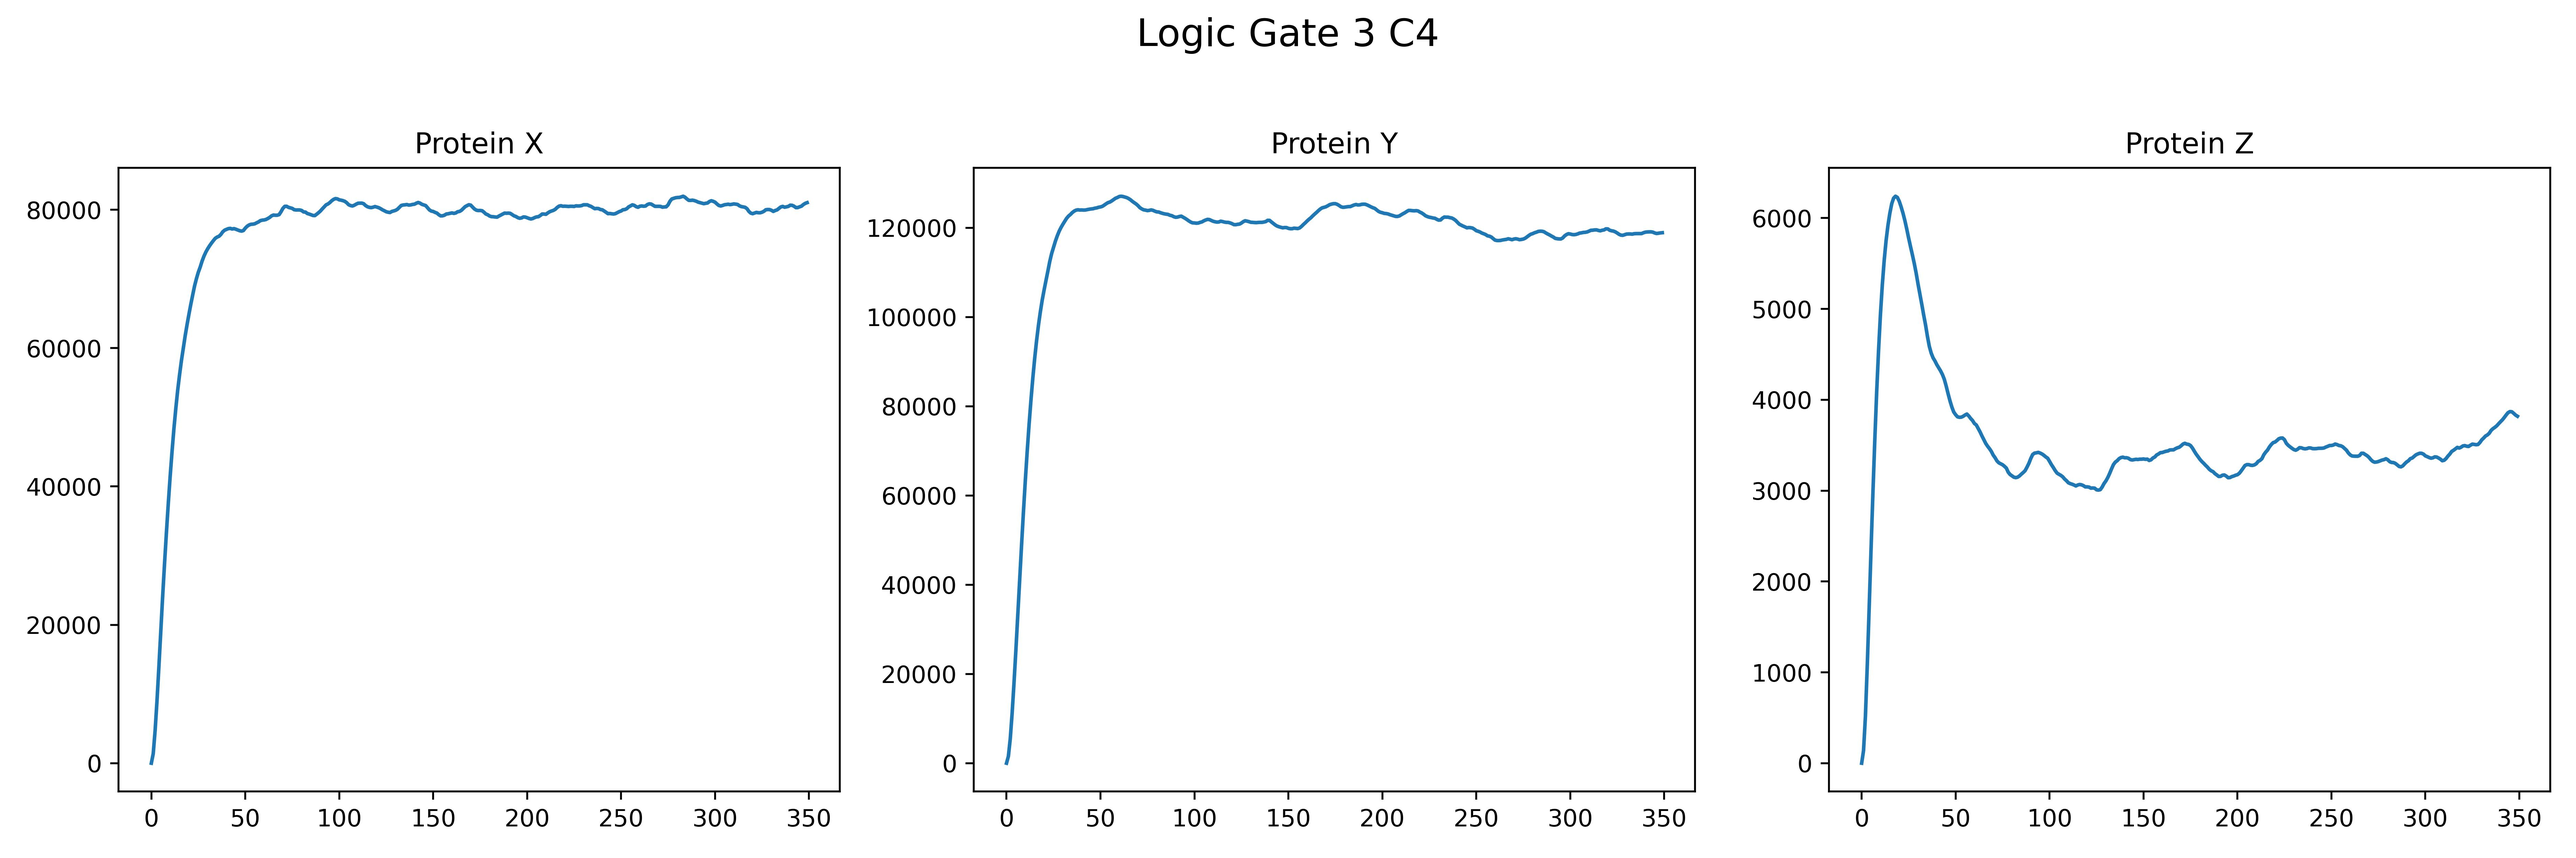
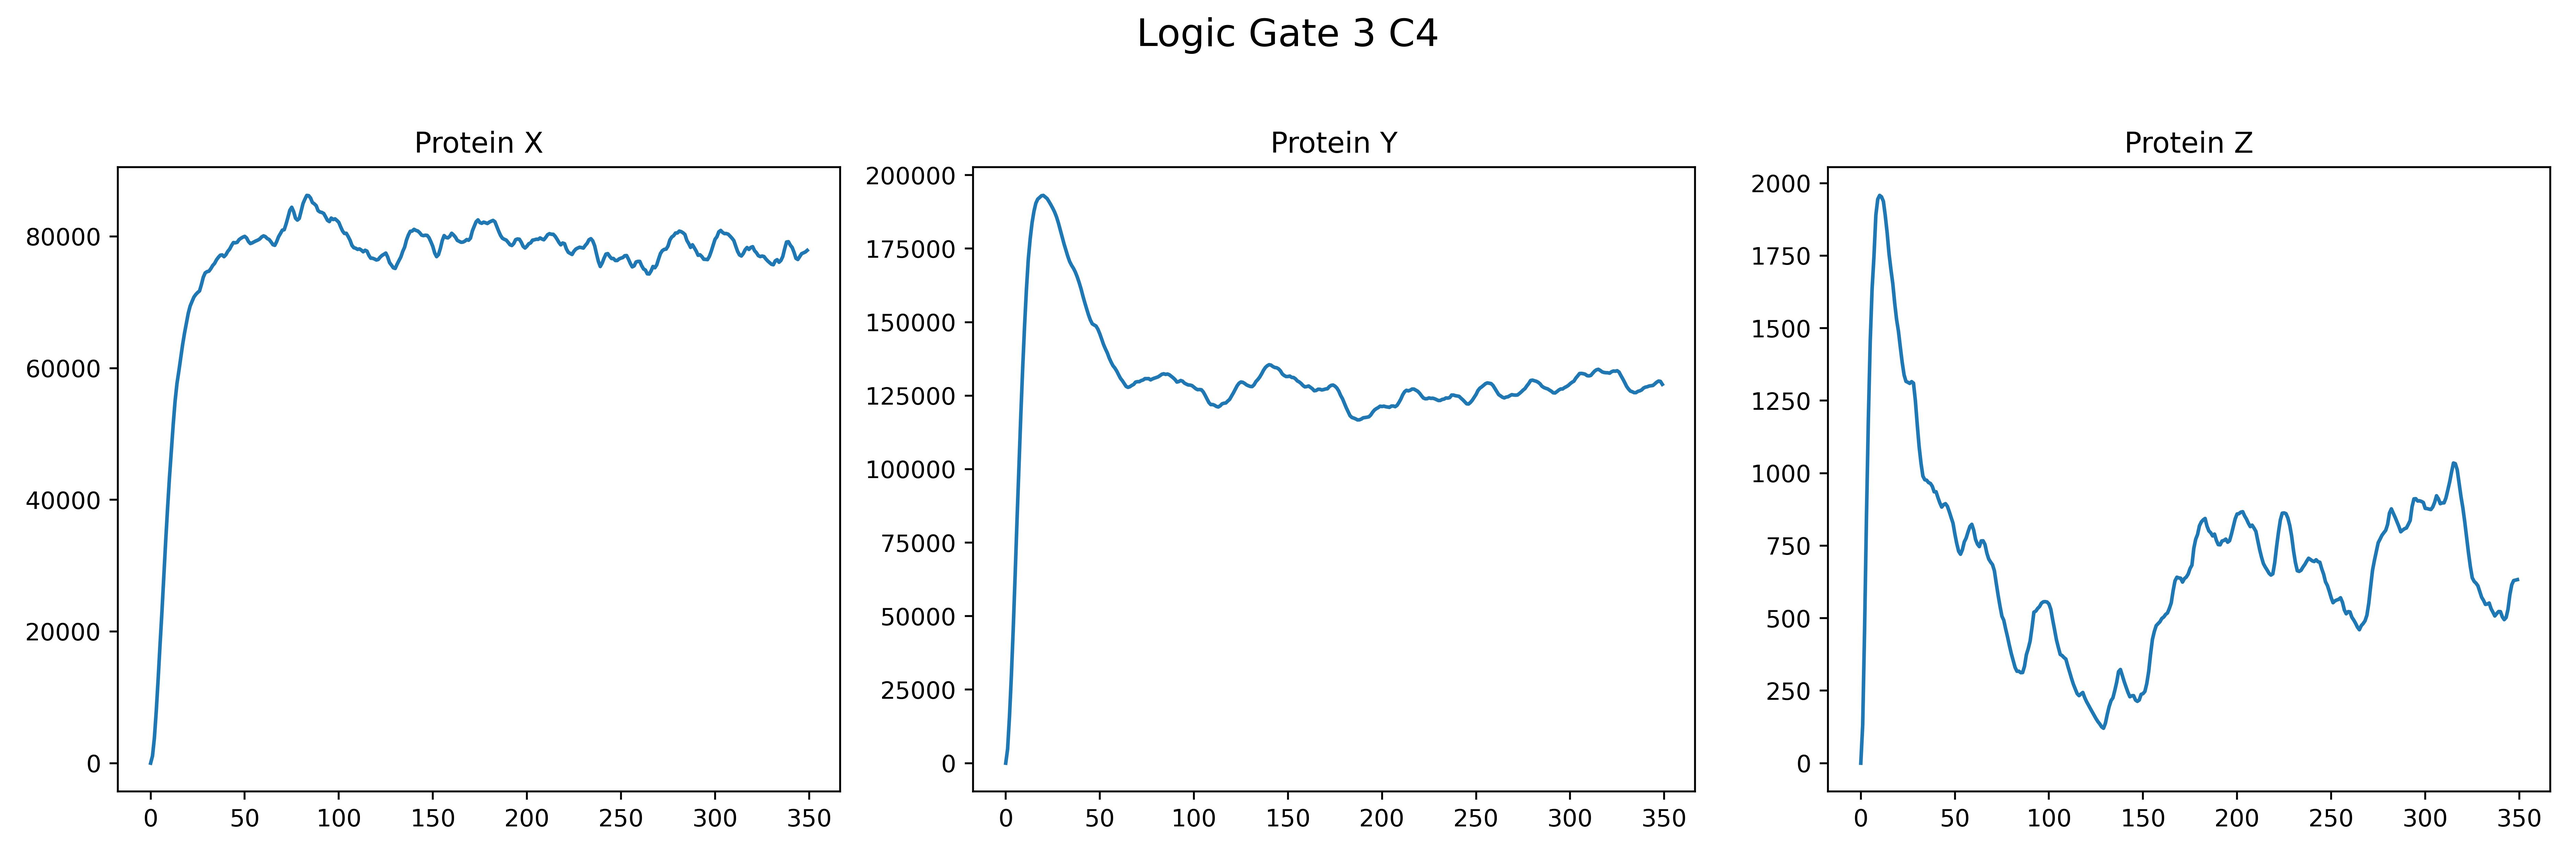
up

diff --git a/Logic_Gate_3/Scripts_Simulations/information_FFL_C3.py b/Logic_Gate_3/Scripts_Simulations/information_FFL_C3.py
@@ -46,7 +46,7 @@ for Hill in valores_posibles_Hill:
         valor_Y_estacionario = (Kpy/muY)*My
         valor_Z_estacionario = (Kpz/muZ)*Mz
 
-        Kxy  = valor_X_estacionario        #Coeficiente de interaccion proteina X con ARNmY
+        Kxy  = valor_X_estacionario/2        #Coeficiente de interaccion proteina X con ARNmY
         Kxz  = valor_X_estacionario         #Coeficiente de interaccion proteina X con ARNmZ
         Kyz  = 2*valor_Y_estacionario         #Coeficiente de interaccion proteina Y con ARNmZ
 
@@ -192,7 +192,7 @@ for Hill in valores_posibles_Hill:
 
         x0 = np.array([0., 0., 0., 0., 0., 0., 0.])
 
-        num_cel = 100 #número de células 
+        num_cel = 10 #número de células 
         celulas = np.array([Estado_celula(x0,np.arange(0.,700.,2.)) for i in tqdm(range(num_cel))])
 
         distribuciones_propias_X = celulas[:,0:,4]
@@ -219,4 +219,17 @@ axs[2].set_title('Protein Z')
 fig.suptitle('Logic Gate 3 C3', fontsize=16)
 
 plt.tight_layout(rect=[0, 0, 1, 0.95])
-plt.savefig("Logic_Gate_3_Coherent_3.jpg", dpi = 500)
+#plt.savefig("Logic_Gate_3_Coherent_3.jpg", dpi = 500)
+# %%
+def funcion_creacion_ARNmZ(cantidad_X, cantidad_Y):
+
+            ARNmZ_interaction_X = Hill_Represion(cantidad_X, Kxy, Ky, Hill)
+            ARNmZ_interaction_Y = Hill_Represion(cantidad_Y, Kxy, Ky, Hill)
+            K_parameters = [1,1,1,1,1]
+            retorno = logic_gate_function_3(ARNmZ_interaction_X, ARNmZ_interaction_Y, K_parameters)
+            return retorno
+# %%
+print(Kpz*funcion_creacion_ARNmZ(80000, 120000))
+# %%
+print((Kpz/muZ)*Mz)
+# %%

diff --git a/Logic_Gate_3/Scripts_Simulations/information_FFL_C2.py b/Logic_Gate_3/Scripts_Simulations/information_FFL_C2.py
@@ -45,9 +45,9 @@ for Hill in valores_posibles_Hill:
         valor_Y_estacionario = (Kpy/muY)*My
         valor_Z_estacionario = (Kpz/muZ)*Mz
 
-        Kxy  = valor_X_estacionario        #Coeficiente de interaccion proteina X con ARNmY
-        Kxz  = valor_X_estacionario         #Coeficiente de interaccion proteina X con ARNmZ
-        Kyz  = 2*valor_Y_estacionario         #Coeficiente de interaccion proteina Y con ARNmZ
+        Kxy  = valor_X_estacionario/2        #Coeficiente de interaccion proteina X con ARNmY
+        Kxz  = valor_X_estacionario/2         #Coeficiente de interaccion proteina X con ARNmZ
+        Kyz  = valor_Y_estacionario/2         #Coeficiente de interaccion proteina Y con ARNmZ
 
         Ky = (My*gammamy)*(((valor_X_estacionario**Hill) + (Kxy**Hill))/(Kxy**Hill))
 
@@ -191,7 +191,7 @@ for Hill in valores_posibles_Hill:
             return X
         x0 = np.array([0., 0., 0., 0., 0., 0., 0.])
 
-        num_cel = 100 #número de células 
+        num_cel = 10 #número de células 
         celulas = np.array([Estado_celula(x0,np.arange(0.,700.,2.)) for i in tqdm(range(num_cel))])
 
         distribuciones_propias_X = celulas[:,0:,4]
@@ -219,4 +219,5 @@ axs[2].set_title('Protein Z')
 fig.suptitle('Logic Gate 3 C2', fontsize=16)
 
 plt.tight_layout(rect=[0, 0, 1, 0.95])
-plt.savefig("Logic_Gate_3_Coherent_2.jpg", dpi = 500)
+#plt.savefig("Logic_Gate_3_Coherent_2.jpg", dpi = 500)
+# %%

diff --git a/Logic_Gate_3/Scripts_Simulations/information_FFL_C4.py b/Logic_Gate_3/Scripts_Simulations/information_FFL_C4.py
@@ -46,9 +46,9 @@ for Hill in valores_posibles_Hill:
         valor_Y_estacionario = (Kpy/muY)*My
         valor_Z_estacionario = (Kpz/muZ)*Mz
 
-        Kxy  = valor_X_estacionario        #Coeficiente de interaccion proteina X con ARNmY
+        Kxy  = valor_X_estacionario/2        #Coeficiente de interaccion proteina X con ARNmY
         Kxz  = valor_X_estacionario         #Coeficiente de interaccion proteina X con ARNmZ
-        Kyz  = 2*valor_Y_estacionario         #Coeficiente de interaccion proteina Y con ARNmZ
+        Kyz  = valor_Y_estacionario         #Coeficiente de interaccion proteina Y con ARNmZ
 
         Ky = (My*gammamy)*(((valor_X_estacionario**Hill) + (Kxy**Hill))/(Kxy**Hill))
         Kz = (Mz*gammamz)*( (((valor_Y_estacionario**Hill) + (Kyz**Hill))*((valor_X_estacionario**Hill) + (Kxz **Hill))     )   /  ((Kxz**Hill)*(valor_Y_estacionario**Hill))   )
@@ -193,7 +193,7 @@ for Hill in valores_posibles_Hill:
 
         x0 = np.array([0., 0., 0., 0., 0., 0., 0.])
 
-        num_cel = 100 #número de células 
+        num_cel = 10 #número de células 
         celulas = np.array([Estado_celula(x0,np.arange(0.,700.,2.)) for i in tqdm(range(num_cel))])
 
         distribuciones_propias_X = celulas[:,0:,4]
@@ -221,3 +221,4 @@ fig.suptitle('Logic Gate 3 C4', fontsize=16)
 
 plt.tight_layout(rect=[0, 0, 1, 0.95])
 plt.savefig("Logic_Gate_3_Coherent_4.jpg", dpi = 500)
+# %%
